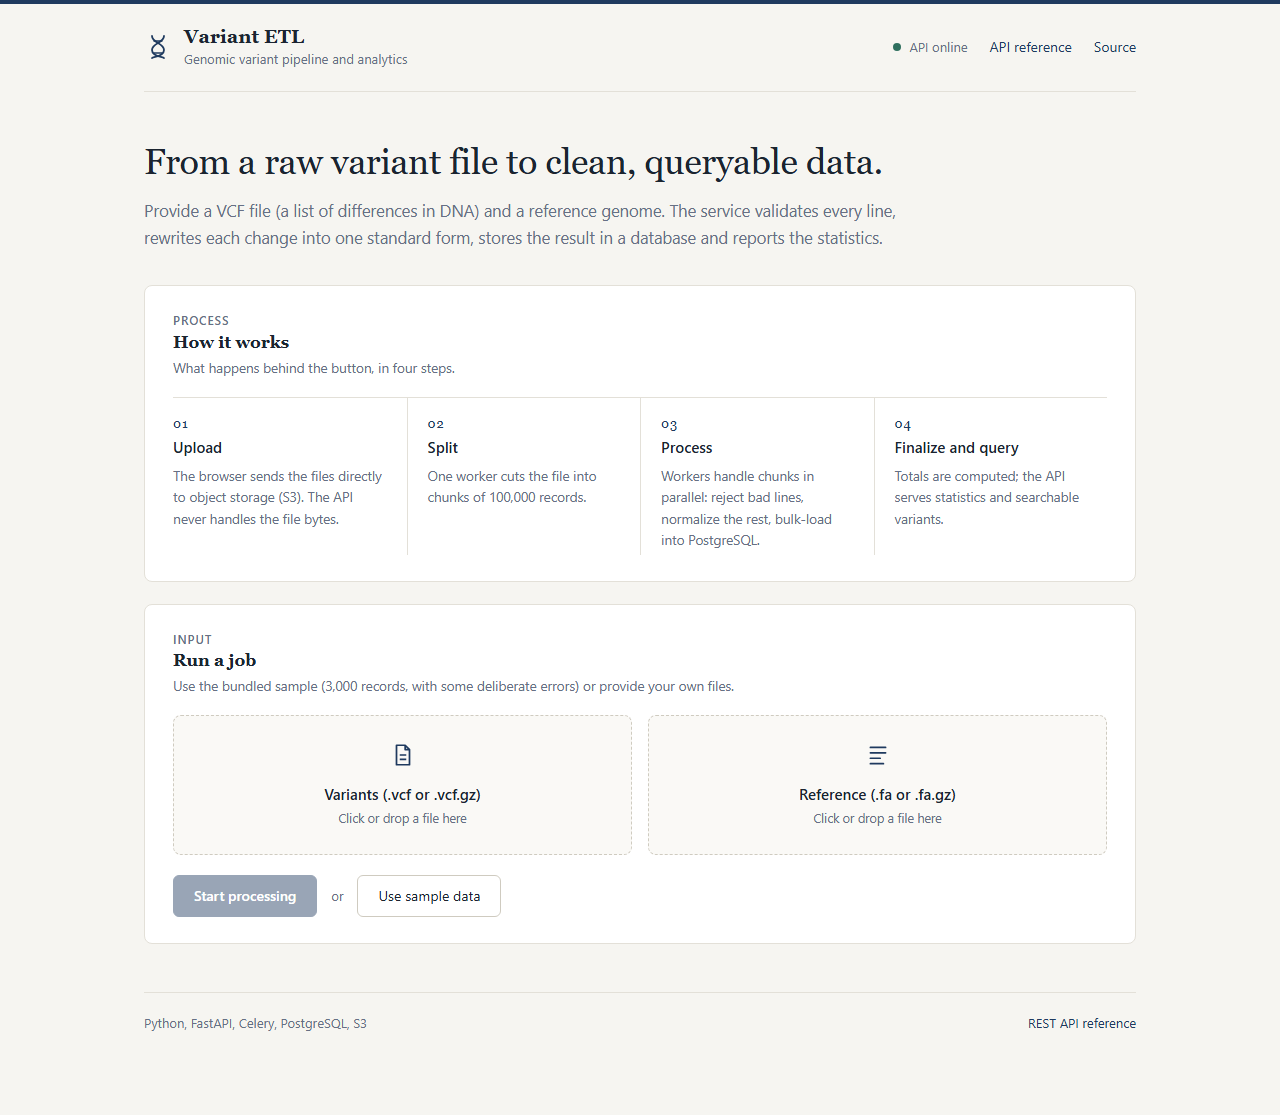
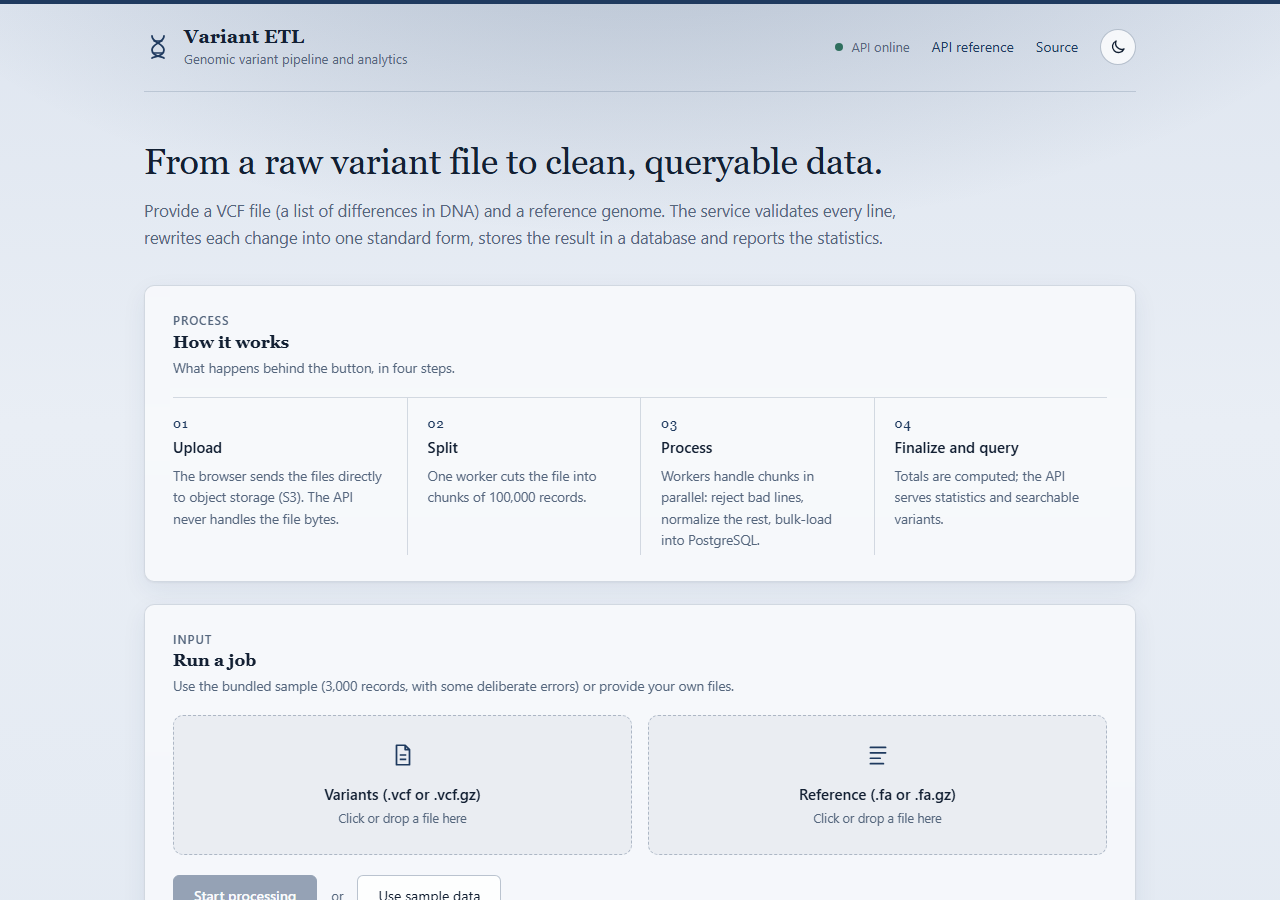
feat(ui): tinted light theme end to end and a light/dark toggle
The light theme now carries a translucent navy tint across the whole page with glass-like cards.
A header button switches to a dark theme (remembered in localStorage, applied before first paint).
Chart colours are CSS variables so both themes stay readable. Screenshots refreshed.

diff --git a/src/variant_etl/api/static/index.html b/src/variant_etl/api/static/index.html
@@ -4,21 +4,52 @@
 <meta charset="utf-8">
 <meta name="viewport" content="width=device-width, initial-scale=1">
 <title>Variant ETL</title>
+<script>
+  // Apply the saved theme before the first paint so the page does not flash light.
+  try { const t = localStorage.getItem("theme"); if (t) document.documentElement.dataset.theme = t; } catch (e) {}
+</script>
 <style>
   :root {
-    --bg: #f6f5f1; --card: #ffffff; --soft: #faf9f6; --line: #e3e0d8; --line2: #cfcbc0;
-    --ink: #1b2430; --muted: #667085; --accent: #1f3a5f; --accent-d: #162b48;
+    color-scheme: light;
+    --base: #e4eaf3;
+    --page: linear-gradient(180deg, #dfe6f0 0%, #e9eef5 38%, #e2e9f2 100%);
+    --glow: radial-gradient(1100px 520px at 50% -140px, rgba(31,58,95,.26), transparent 72%);
+    --card: rgba(255,255,255,.62); --soft: rgba(31,58,95,.055); --field: rgba(255,255,255,.78);
+    --line: rgba(31,58,95,.17); --line2: rgba(31,58,95,.30); --track: rgba(31,58,95,.13);
+    --ink: #132033; --muted: #55667d;
+    --accent: #1f3a5f; --btn: #1f3a5f; --btn-h: #162b48;
     --ok: #2f6f5e; --bad: #a64b3f; --warn: #8a6620;
+    --accent-soft: rgba(31,58,95,.09); --ok-soft: rgba(47,111,94,.12); --bad-soft: rgba(166,75,63,.09);
+    --c-snv: #1f3a5f; --c-ins: #3d7a68; --c-del: #a64b3f; --c-mnv: #b0842f; --c-complex: #6c7184; --bar: #1f3a5f;
+    --shadow: 0 1px 2px rgba(19,32,51,.05), 0 8px 24px rgba(31,58,95,.07);
     --serif: Georgia, "Iowan Old Style", "Palatino Linotype", "Times New Roman", serif;
     --mono: ui-monospace, SFMono-Regular, Menlo, Consolas, monospace;
   }
+  :root[data-theme="dark"] {
+    color-scheme: dark;
+    --base: #0a1220;
+    --page: linear-gradient(180deg, #0a1220 0%, #0d1727 45%, #0a1220 100%);
+    --glow: radial-gradient(1100px 520px at 50% -140px, rgba(94,148,230,.22), transparent 72%);
+    --card: rgba(255,255,255,.045); --soft: rgba(255,255,255,.04); --field: rgba(255,255,255,.07);
+    --line: rgba(255,255,255,.10); --line2: rgba(255,255,255,.22); --track: rgba(255,255,255,.10);
+    --ink: #e8edf5; --muted: #8f9cb2;
+    --accent: #8fb4ec; --btn: #3a68a8; --btn-h: #4a79bd;
+    --ok: #62b8a0; --bad: #e0857a; --warn: #d8a94f;
+    --accent-soft: rgba(143,180,236,.10); --ok-soft: rgba(98,184,160,.12); --bad-soft: rgba(224,133,122,.10);
+    --c-snv: #78a3e6; --c-ins: #62b8a0; --c-del: #e0857a; --c-mnv: #d8a94f; --c-complex: #9aa3bd; --bar: #78a3e6;
+    --shadow: 0 1px 2px rgba(0,0,0,.3), 0 8px 24px rgba(0,0,0,.25);
+  }
   * { box-sizing: border-box; }
-  body { margin: 0; color: var(--ink); background: var(--bg);
-         font: 15px/1.6 system-ui, -apple-system, "Segoe UI", Roboto, "Helvetica Neue", sans-serif; }
+  /* The tint covers the whole page height (not just the window), so it runs end to end. */
+  html { background: var(--base); }
+  body { margin: 0; color: var(--ink);
+         background: var(--glow), var(--page); background-repeat: no-repeat; min-height: 100vh;
+         font: 15px/1.6 system-ui, -apple-system, "Segoe UI", Roboto, "Helvetica Neue", sans-serif;
+         transition: color .25s; }
   a { color: var(--accent); text-decoration: none; border-bottom: 1px solid transparent; }
   a:hover { border-bottom-color: var(--accent); }
   .wrap { max-width: 1040px; margin: 0 auto; padding: 0 24px 80px; }
-  .topbar { height: 4px; background: var(--accent); }
+  .topbar { height: 4px; background: var(--btn); }
 
   header { display: flex; align-items: center; justify-content: space-between; gap: 16px; flex-wrap: wrap;
            padding: 22px 0; border-bottom: 1px solid var(--line); }
@@ -30,12 +61,19 @@
   .health { display: inline-flex; align-items: center; gap: 8px; color: var(--muted); font-size: 13px; }
   .dot { width: 8px; height: 8px; border-radius: 50%; background: var(--line2); }
   .dot.ok { background: var(--ok); } .dot.bad { background: var(--bad); }
+  button.theme { width: 36px; height: 36px; padding: 0; border-radius: 50%; display: grid; place-items: center;
+                 background: var(--field); border: 1px solid var(--line2); color: var(--ink); }
+  button.theme svg { width: 18px; height: 18px; }
+  button.theme .sun { display: none; }
+  :root[data-theme="dark"] button.theme .sun { display: block; }
+  :root[data-theme="dark"] button.theme .moon { display: none; }
 
   .hero { padding: 48px 0 12px; max-width: 760px; }
   .hero h2 { font: 400 36px/1.2 var(--serif); letter-spacing: -.4px; margin: 0 0 14px; }
   .hero p { color: var(--muted); margin: 0; font-size: 16.5px; line-height: 1.65; }
 
-  .card { background: var(--card); border: 1px solid var(--line); border-radius: 8px; padding: 26px 28px; margin-top: 22px; }
+  .card { background: var(--card); border: 1px solid var(--line); border-radius: 10px; padding: 26px 28px; margin-top: 22px;
+          box-shadow: var(--shadow); -webkit-backdrop-filter: blur(10px); backdrop-filter: blur(10px); }
   .card h3 { margin: 0 0 4px; font: 600 17px/1.3 var(--serif); }
   .card .hint { color: var(--muted); font-size: 13.5px; margin: 0 0 18px; }
   .eyebrow { text-transform: uppercase; letter-spacing: 1.2px; font-size: 11.5px; color: var(--muted); font-weight: 600; }
@@ -48,10 +86,10 @@
   .how span { color: var(--muted); font-size: 13.5px; display: block; }
 
   .drops { display: grid; grid-template-columns: 1fr 1fr; gap: 16px; }
-  .drop { border: 1px dashed var(--line2); border-radius: 8px; padding: 26px 18px; text-align: center; cursor: pointer;
+  .drop { border: 1px dashed var(--line2); border-radius: 10px; padding: 26px 18px; text-align: center; cursor: pointer;
           background: var(--soft); transition: border-color .15s, background .15s; }
-  .drop:hover, .drop.over { border-color: var(--accent); background: #f1f4f8; }
-  .drop.has { border-style: solid; border-color: var(--ok); background: #f1f7f4; }
+  .drop:hover, .drop.over { border-color: var(--accent); background: var(--accent-soft); }
+  .drop.has { border-style: solid; border-color: var(--ok); background: var(--ok-soft); }
   .drop svg { width: 26px; height: 26px; color: var(--accent); margin-bottom: 8px; }
   .drop .name { font-weight: 600; word-break: break-all; }
   .drop .desc { color: var(--muted); font-size: 12.5px; margin-top: 2px; }
@@ -59,34 +97,34 @@
 
   .row { display: flex; gap: 14px; align-items: center; flex-wrap: wrap; margin-top: 20px; }
   button { font: inherit; font-size: 14px; cursor: pointer; border-radius: 6px; border: 1px solid var(--line2);
-           padding: 9px 20px; background: var(--card); color: var(--ink); transition: .15s; }
+           padding: 9px 20px; background: var(--field); color: var(--ink); transition: .15s; }
   button:hover:not(:disabled) { border-color: var(--accent); color: var(--accent); }
-  button.primary { background: var(--accent); border-color: var(--accent); color: #fff; font-weight: 600; }
-  button.primary:hover:not(:disabled) { background: var(--accent-d); color: #fff; }
+  button.primary { background: var(--btn); border-color: var(--btn); color: #fff; font-weight: 600; }
+  button.primary:hover:not(:disabled) { background: var(--btn-h); border-color: var(--btn-h); color: #fff; }
   button:disabled { opacity: .45; cursor: not-allowed; }
   .or { color: var(--muted); font-size: 13px; }
 
   .stepper { display: flex; align-items: center; margin: 4px 0 20px; }
   .st { display: flex; align-items: center; gap: 9px; color: var(--muted); font-size: 13.5px; white-space: nowrap; }
   .st i { width: 24px; height: 24px; border-radius: 50%; display: grid; place-items: center; font-style: normal;
-          font-size: 12px; border: 1px solid var(--line2); background: var(--card); }
+          font-size: 12px; border: 1px solid var(--line2); background: var(--field); }
   .st.active { color: var(--ink); font-weight: 600; }
   .st.active i { border: 2px solid var(--accent); color: var(--accent); }
   .st.done { color: var(--ink); }
-  .st.done i { background: var(--accent); border-color: var(--accent); color: #fff; }
+  .st.done i { background: var(--btn); border-color: var(--btn); color: #fff; }
   .st.err i { background: var(--bad); border-color: var(--bad); color: #fff; }
   .line { flex: 1; height: 1px; background: var(--line2); margin: 0 14px; min-width: 14px; }
-  .line.done { background: var(--accent); }
+  .line.done { background: var(--btn); }
 
-  .bar { height: 6px; border-radius: 3px; background: #ebe8e0; overflow: hidden; }
-  .bar > div { height: 100%; width: 0; background: var(--accent); transition: width .4s; }
+  .bar { height: 6px; border-radius: 3px; background: var(--track); overflow: hidden; }
+  .bar > div { height: 100%; width: 0; background: var(--btn); transition: width .4s; }
   .status-line { display: flex; justify-content: space-between; color: var(--muted); font-size: 13px; margin-top: 10px; }
   .banner { border-radius: 6px; padding: 11px 15px; margin-top: 16px; font-size: 14px; border: 1px solid; }
-  .banner.info { background: #f1f4f8; border-color: #c9d4e2; color: var(--accent); }
-  .banner.err { background: #fbf1ef; border-color: #e5c2bc; color: var(--bad); }
+  .banner.info { background: var(--accent-soft); border-color: var(--line2); color: var(--accent); }
+  .banner.err { background: var(--bad-soft); border-color: var(--bad); color: var(--bad); }
 
   .kpis { display: grid; grid-template-columns: repeat(auto-fit, minmax(150px, 1fr)); border: 1px solid var(--line); border-radius: 8px; overflow: hidden; }
-  .kpi { padding: 18px 20px; border-right: 1px solid var(--line); background: var(--card); }
+  .kpi { padding: 18px 20px; border-right: 1px solid var(--line); background: var(--soft); }
   .kpi:last-child { border-right: 0; }
   .kpi .v { font: 400 30px/1.15 var(--serif); letter-spacing: -.5px; font-variant-numeric: tabular-nums; }
   .kpi .l { color: var(--muted); font-size: 12.5px; margin-top: 4px; }
@@ -94,14 +132,14 @@
 
   .grid2 { display: grid; grid-template-columns: 1fr 1fr; gap: 22px; }
   .hbar { display: grid; grid-template-columns: 170px 1fr 56px; gap: 12px; align-items: center; margin: 12px 0; font-size: 13.5px; }
-  .hbar .t { height: 8px; border-radius: 4px; background: #ebe8e0; overflow: hidden; }
+  .hbar .t { height: 8px; border-radius: 4px; background: var(--track); overflow: hidden; }
   .hbar .t > div { height: 100%; border-radius: 4px; }
   .hbar .c { text-align: right; color: var(--ink); font-variant-numeric: tabular-nums; }
   .hbar small { display: block; color: var(--muted); font-size: 11.5px; line-height: 1.35; }
 
   .hist { display: flex; align-items: flex-end; gap: 8px; height: 150px; margin-top: 8px; border-bottom: 1px solid var(--line2); }
   .hist div { flex: 1; display: flex; flex-direction: column; justify-content: flex-end; align-items: center; height: 100%; position: relative; }
-  .hist b { width: 100%; background: var(--accent); min-height: 2px; border-radius: 2px 2px 0 0; opacity: .88; }
+  .hist b { width: 100%; background: var(--bar); min-height: 2px; border-radius: 2px 2px 0 0; opacity: .9; }
   .hist span { position: absolute; bottom: -22px; font-size: 11px; color: var(--muted); }
   .hist-wrap { padding-bottom: 24px; }
 
@@ -116,7 +154,7 @@
   .tab { display: flex; gap: 0; margin-bottom: 18px; border-bottom: 1px solid var(--line); }
   .tab button { border: 0; border-bottom: 2px solid transparent; border-radius: 0; background: none; padding: 8px 18px 10px; color: var(--muted); }
   .tab button.on { color: var(--accent); border-bottom-color: var(--accent); font-weight: 600; }
-  select { font: inherit; font-size: 13.5px; background: var(--card); color: var(--ink); border: 1px solid var(--line2);
+  select { font: inherit; font-size: 13.5px; background: var(--field); color: var(--ink); border: 1px solid var(--line2);
            border-radius: 6px; padding: 5px 10px; }
   .filters { display: flex; gap: 12px; align-items: center; margin-bottom: 14px; flex-wrap: wrap; color: var(--muted); font-size: 13px; }
   .tip { cursor: help; border-bottom: 1px dotted var(--muted); }
@@ -133,6 +171,7 @@
     .hero { padding-top: 32px; } .hero h2 { font-size: 27px; }
     .hbar { grid-template-columns: 120px 1fr 50px; }
     .kpi { border-bottom: 1px solid var(--line); }
+    nav { gap: 14px; }
   }
 </style>
 </head>
@@ -151,6 +190,10 @@
       <span class="health"><span class="dot" id="healthDot"></span><span id="healthText">checking</span></span>
       <a href="/docs">API reference</a>
       <a href="https://github.com/aleksandrahodzzik/genomic-etl-pipeline" target="_blank" rel="noopener">Source</a>
+      <button class="theme" id="themeBtn" type="button" aria-label="Switch between light and dark theme" title="Light / dark">
+        <svg class="moon" viewBox="0 0 24 24" fill="none" stroke="currentColor" stroke-width="1.8" stroke-linejoin="round" aria-hidden="true"><path d="M20 14.5A8 8 0 0 1 9.5 4a8 8 0 1 0 10.5 10.5z"/></svg>
+        <svg class="sun" viewBox="0 0 24 24" fill="none" stroke="currentColor" stroke-width="1.8" stroke-linecap="round" aria-hidden="true"><circle cx="12" cy="12" r="4"/><path d="M12 2v2M12 20v2M2 12h2M20 12h2M4.9 4.9l1.4 1.4M17.7 17.7l1.4 1.4M4.9 19.1l1.4-1.4M17.7 6.3l1.4-1.4"/></svg>
+      </button>
     </nav>
   </header>
 
@@ -267,8 +310,10 @@ const esc = (s) => String(s).replace(/[&<>"']/g, (c) => ({ "&": "&amp;", "<": "&
 const fmt = (n) => Number(n).toLocaleString("en-US");
 const API = "/api/v1";
 
-const NAVY = "#1f3a5f", RED = "#a64b3f";
-const TYPE_COLOR = { SNV: "#1f3a5f", INS: "#3d7a68", DEL: "#a64b3f", MNV: "#b0842f", COMPLEX: "#6c7184" };
+// Colours are CSS variables so the charts follow the light/dark theme.
+const BAR = "var(--bar)", RED = "var(--bad)";
+const TYPE_COLOR = { SNV: "var(--c-snv)", INS: "var(--c-ins)", DEL: "var(--c-del)", MNV: "var(--c-mnv)", COMPLEX: "var(--c-complex)" };
+const tint = (c, pct) => `color-mix(in srgb, ${c} ${pct}%, transparent)`;
 const REASONS = {
   malformed_line: ["Malformed line", "Wrong number of columns, a bad position, or an empty field."],
   non_numeric_qual: ["Bad quality value", "The QUAL column is not a number."],
@@ -281,6 +326,13 @@ const REASONS = {
 
 let vcfFile = null, refFile = null, jobId = null, busy = false;
 let varCursor = null, rejCursor = null;
+
+// ---------- theme ----------
+$("themeBtn").onclick = () => {
+  const next = document.documentElement.dataset.theme === "dark" ? "light" : "dark";
+  document.documentElement.dataset.theme = next;
+  try { localStorage.setItem("theme", next); } catch (e) {}
+};
 
 // ---------- health ----------
 async function checkHealth() {
@@ -424,7 +476,7 @@ async function showResults(job) {
 
   const maxT = Math.max(...Object.values(sum.by_type), 1);
   $("types").innerHTML = Object.entries(sum.by_type).sort((a, b) => b[1] - a[1])
-    .map(([t, c]) => hbar(t, c, maxT, TYPE_COLOR[t] || NAVY)).join("") || "<span class='sub'>No variants.</span>";
+    .map(([t, c]) => hbar(t, c, maxT, TYPE_COLOR[t] || BAR)).join("") || "<span class='sub'>No variants.</span>";
 
   const reasons = Object.entries(sum.rejected_by_reason).sort((a, b) => b[1].count - a[1].count);
   const maxR = Math.max(...reasons.map(([, v]) => v.count), 1);
@@ -439,7 +491,7 @@ async function showResults(job) {
 
   const maxC = Math.max(...chr.chromosomes.map((c) => c.variants), 1);
   $("chroms").innerHTML = chr.chromosomes.map((c) =>
-    hbar(esc(c.chrom), c.variants, maxC, NAVY, c.density_per_mb != null ? `${fmt(Math.round(c.density_per_mb))} per Mb` : "")).join("");
+    hbar(esc(c.chrom), c.variants, maxC, BAR, c.density_per_mb != null ? `${fmt(Math.round(c.density_per_mb))} per Mb` : "")).join("");
 
   $("fChrom").innerHTML = '<option value="">all</option>' + chr.chromosomes.map((c) => `<option>${esc(c.chrom)}</option>`).join("");
   await loadVariants(true); await loadRejected(true);
@@ -455,13 +507,13 @@ async function loadVariants(reset) {
   if (varCursor) q.set("cursor", varCursor);
   const page = await api(`/jobs/${jobId}/variants?${q}`);
   $("varBody").insertAdjacentHTML("beforeend", page.items.map((v) => {
-    const c = TYPE_COLOR[v.variant_type] || NAVY;
+    const c = TYPE_COLOR[v.variant_type] || BAR;
     return `
     <tr><td class="m">${esc(v.chrom)}:${fmt(v.pos)}</td>
     <td class="m">${esc(v.ref.length > 14 ? v.ref.slice(0, 14) + "…" : v.ref)} → ${esc(v.alt.length > 14 ? v.alt.slice(0, 14) + "…" : v.alt)}</td>
-    <td><span class="badge" style="background:${c}1a;color:${c}">${esc(v.variant_type)}</span></td>
+    <td><span class="badge" style="background:${tint(c, 16)};color:${c}">${esc(v.variant_type)}</span></td>
     <td>${v.qual ?? "–"}</td><td>${v.af ?? "–"}</td>
-    <td>${v.was_normalized ? '<span class="badge" style="background:#b0842f1f;color:#8a6620">rewritten</span>' : '<span style="color:var(--muted)">as written</span>'}</td></tr>`;
+    <td>${v.was_normalized ? `<span class="badge" style="background:${tint("var(--warn)", 16)};color:var(--warn)">rewritten</span>` : '<span style="color:var(--muted)">as written</span>'}</td></tr>`;
   }).join(""));
   varCursor = page.next_cursor;
   $("btnMore").classList.toggle("hidden", !varCursor);

diff --git a/README.md b/README.md
@@ -81,6 +81,10 @@ Remove-NetFirewallRule -DisplayName "Variant ETL (phone)"   # when done
 
 ![Results after processing the sample](docs/images/ui-results.png)
 
+There is a light and a dark theme (the button in the header switches them; the choice is remembered in the browser).
+
+![Results, dark theme](docs/images/ui-results-dark.png)
+
 Other targets: `make test`, `make lint`, `make data` (1M-record dataset), `make bench` (runs `make data`, then the benchmark that writes [`docs/BENCHMARKS.md`](docs/BENCHMARKS.md)).
 
 > **Windows without `make`**: the Makefile is a thin wrapper, so run the commands it contains. For example, `docker compose up -d --build --wait` is `make up`; the recipes for `demo` and `bench` are two `uv run python scripts/...` lines.
